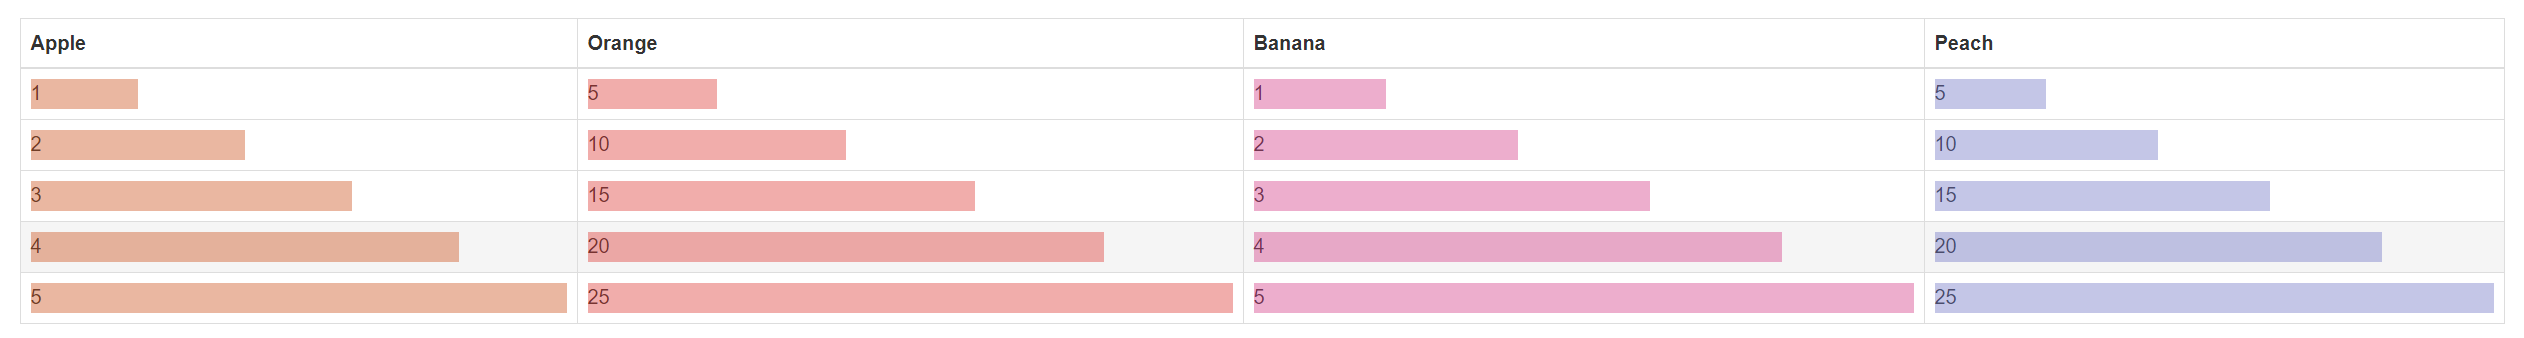
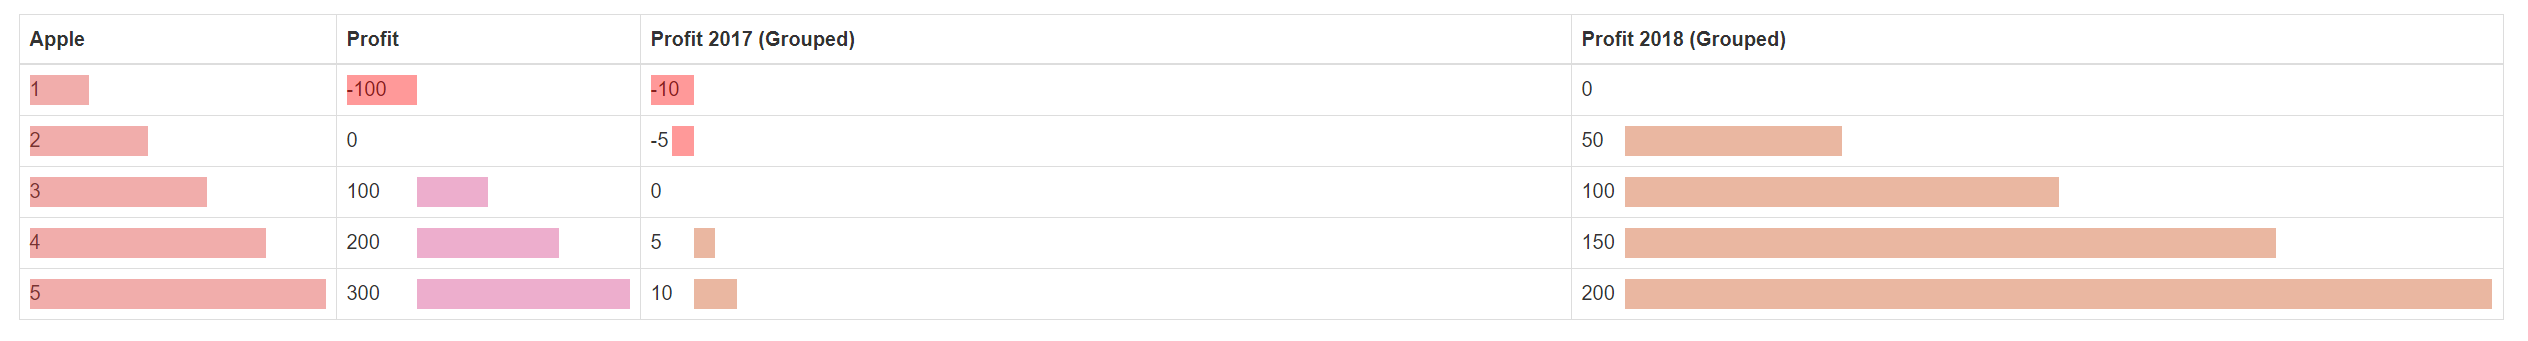
Added group feature - Group a number of columns to calculate the width of data bars

diff --git a/jquery.databar.js b/jquery.databar.js
@@ -48,6 +48,65 @@
     }
   };
 
+  var has_duplicate = function(arr){
+    if(arr.length===0) return false;
+    arr.sort();
+    let prev = arr[0];
+    for(let i=1; i<arr.length; i++){
+        if(arr[i] === prev){
+            return true
+        } else {
+            prev = arr[i];
+        }
+    }
+    return false;
+
+  };
+
+  var get_all_column_groups = function(column_size, options){
+    /*
+    column_size: 7
+    options['column_groups']: [[1,2],[4,6]]
+
+    return: [[0],[1,2],[3],[4,6],[5]]
+
+    ------
+
+    column_size: 3
+    options: Do not have 'column_groups'
+
+    return: [[0],[1],[2]]
+     */
+    let result;
+    if(options.hasOwnProperty('column_groups')){
+        let column_groups = options['column_groups'];
+        let column_groups_flattened = [];
+
+        for (let i= 0; i < column_groups.length; i++){
+            for (let j=0; j<column_groups[i].length; j++){
+                column_groups_flattened.push(column_groups[i][j]);
+            }
+        }
+        if(has_duplicate(column_groups_flattened)){
+            throw 'column_groups in options has duplicate columns';
+        }
+        result = column_groups;
+        for(let i=0; i<column_size; i++){
+            if(column_groups_flattened.indexOf(i) === -1){
+                result.push([i]);
+            }
+        }
+        return result
+
+    } else {
+        result = new Array(column_size);
+        for (let i = 0; i < column_size; i++){
+            result[i] = [i];
+        }
+        return result
+    }
+  };
+
   $.fn.databar = function (options) {
     var options = options || {};
     var colorMaker = new ColorMaker(options);
@@ -61,9 +120,14 @@
     throw_if_invalid_html($table);
 
     var column_size = $table.find('tbody tr').first().find('td').length;
+    var all_column_groups = get_all_column_groups(column_size, options);
 
-    for (var i = 0; i < column_size; i++) {
-      var $vertical_tds = $table.find('tbody tr > :nth-child(' + (i + 1) + ')');
+    for (var j = 0; j < all_column_groups.length; j++) {
+      var td_selector_groups = all_column_groups[j].map(function(x){
+        return 'tbody tr > :nth-child(' + (x + 1) + ')';
+      });
+      var td_selector = td_selector_groups.join(',');
+      var $vertical_tds = $table.find(td_selector);
       var numbers = $vertical_tds.map(function (i) {
         var text = $(this).text();
 

diff --git a/examples/demo.html b/examples/demo.html
@@ -12,7 +12,7 @@
   <script src="../jquery.databar.js"></script>
   <script>
     $(function () {
-      $('table').databar();
+      $('table').databar({column_groups:[[2, 3]]});
     });
   </script>
 </head>
@@ -21,41 +21,41 @@
   <thead>
   <tr>
     <th>Apple</th>
-    <th>Orange</th>
-    <th>Banana</th>
-    <th>Peach</th>
+    <th>Profit</th>
+    <th>Profit 2017 (Grouped)</th>
+    <th>Profit 2018 (Grouped)</th>
   </tr>
   </thead>
   <tbody>
   <tr>
     <td>1</td>
-    <td>5</td>
-    <td>-1</td>
-    <td>5</td>
-  </tr>
-  <tr>
-    <td>2</td>
-    <td>10</td>
-    <td>1</td>
     <td>-100</td>
-  </tr>
-  <tr>
-    <td>3</td>
-    <td>15</td>
-    <td>2</td>
+    <td>-10</td>
     <td>0</td>
   </tr>
   <tr>
-    <td>4</td>
-    <td>20</td>
+    <td>2</td>
+    <td>0</td>
+    <td>-5</td>
+    <td>50</td>
+  </tr>
+  <tr>
     <td>3</td>
-    <td>20</td>
+    <td>100</td>
+    <td>0</td>
+    <td>100</td>
+  </tr>
+  <tr>
+    <td>4</td>
+    <td>200</td>
+    <td>5</td>
+    <td>150</td>
   </tr>
   <tr>
     <td>5</td>
-    <td>25</td>
-    <td>4</td>
-    <td>25</td>
+    <td>300</td>
+    <td>10</td>
+    <td>200</td>
   </tr>
   </tbody>
 </table>

diff --git a/README.md b/README.md
@@ -9,7 +9,6 @@ jquery.databar - jQuery plugin for Excel-style data bar.
 1. double click examples/demo.html
 
 ![Demo](/examples/demo.png)
-![Demo2](/examples/demo2.png)
 
 
 ## Installation
@@ -40,7 +39,8 @@ where the jQuery selector is used to obtain a reference to the table you want to
 
 ```js
 $('table').databar( {
-  backgroundOpacity: 0.1
+  backgroundOpacity: 0.1,
+  'column_groups': [[2, 3]],
 } );
 ```
 
